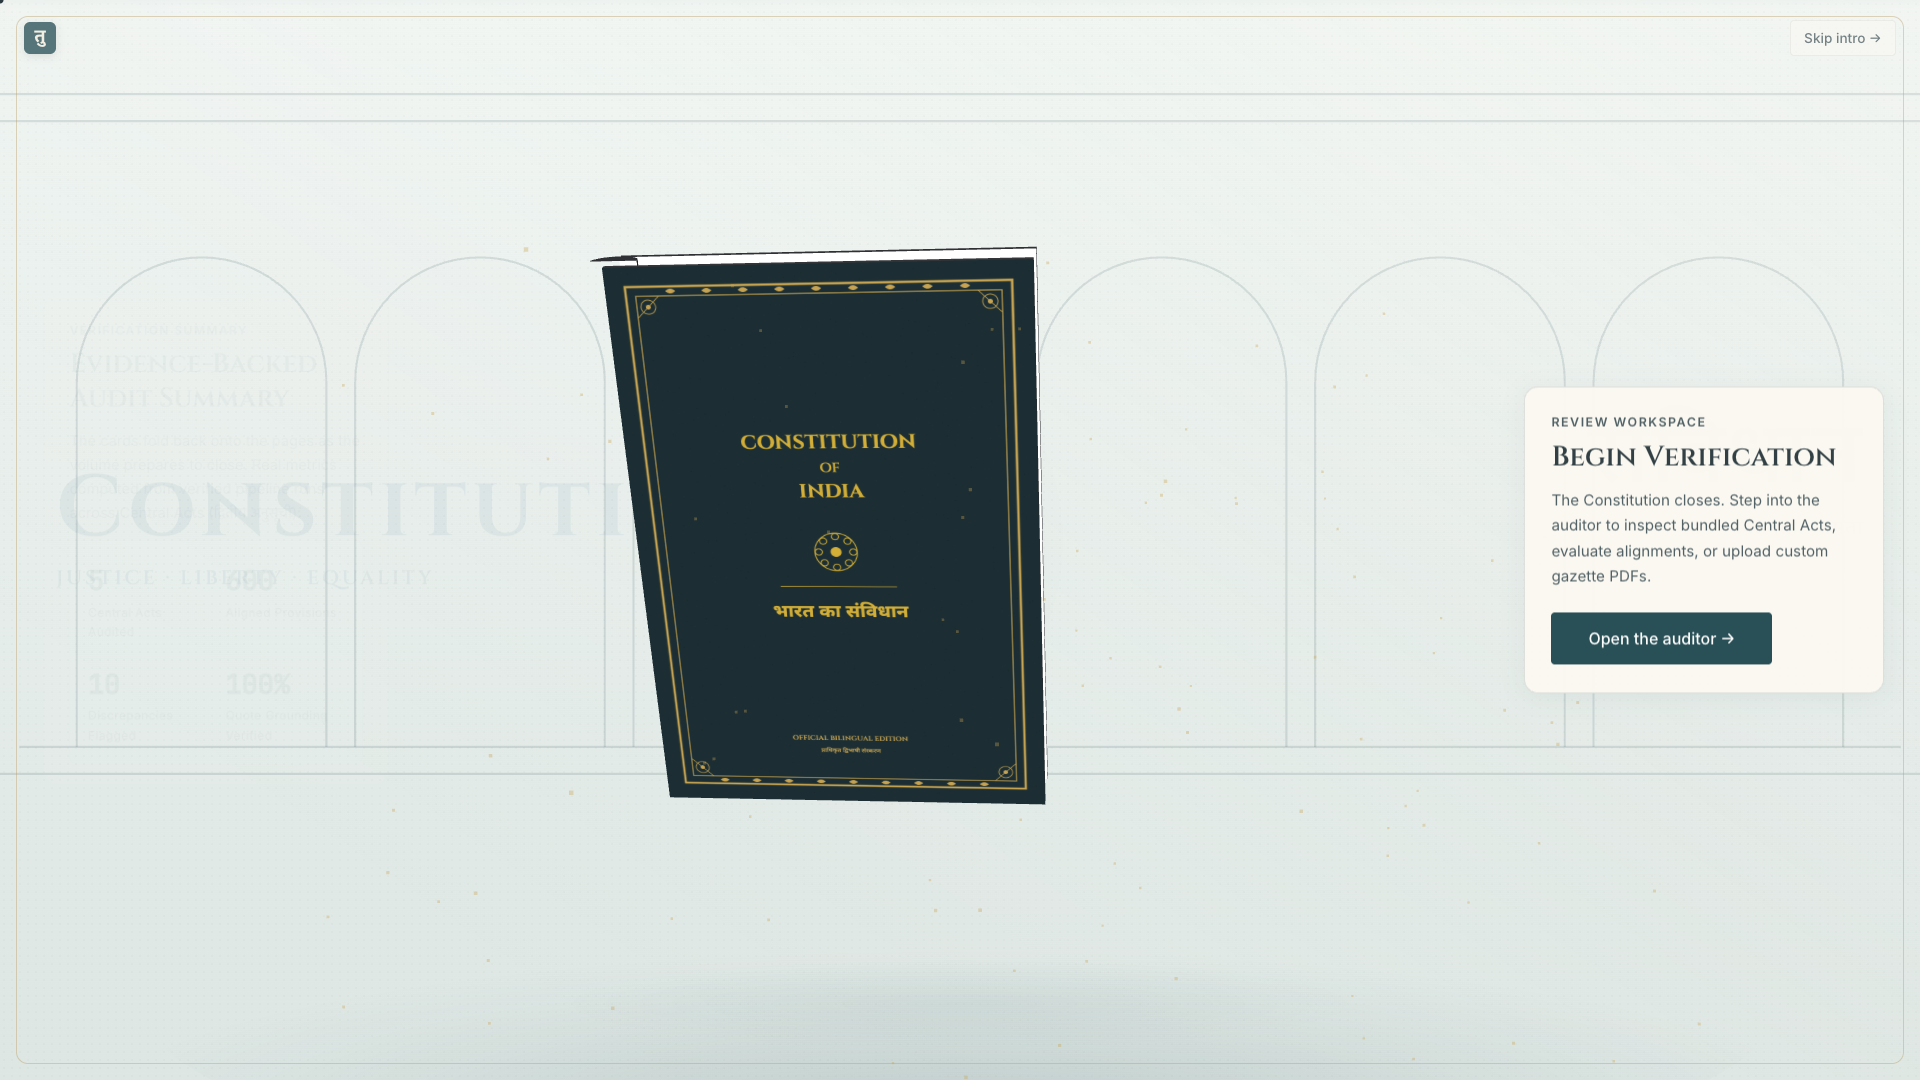
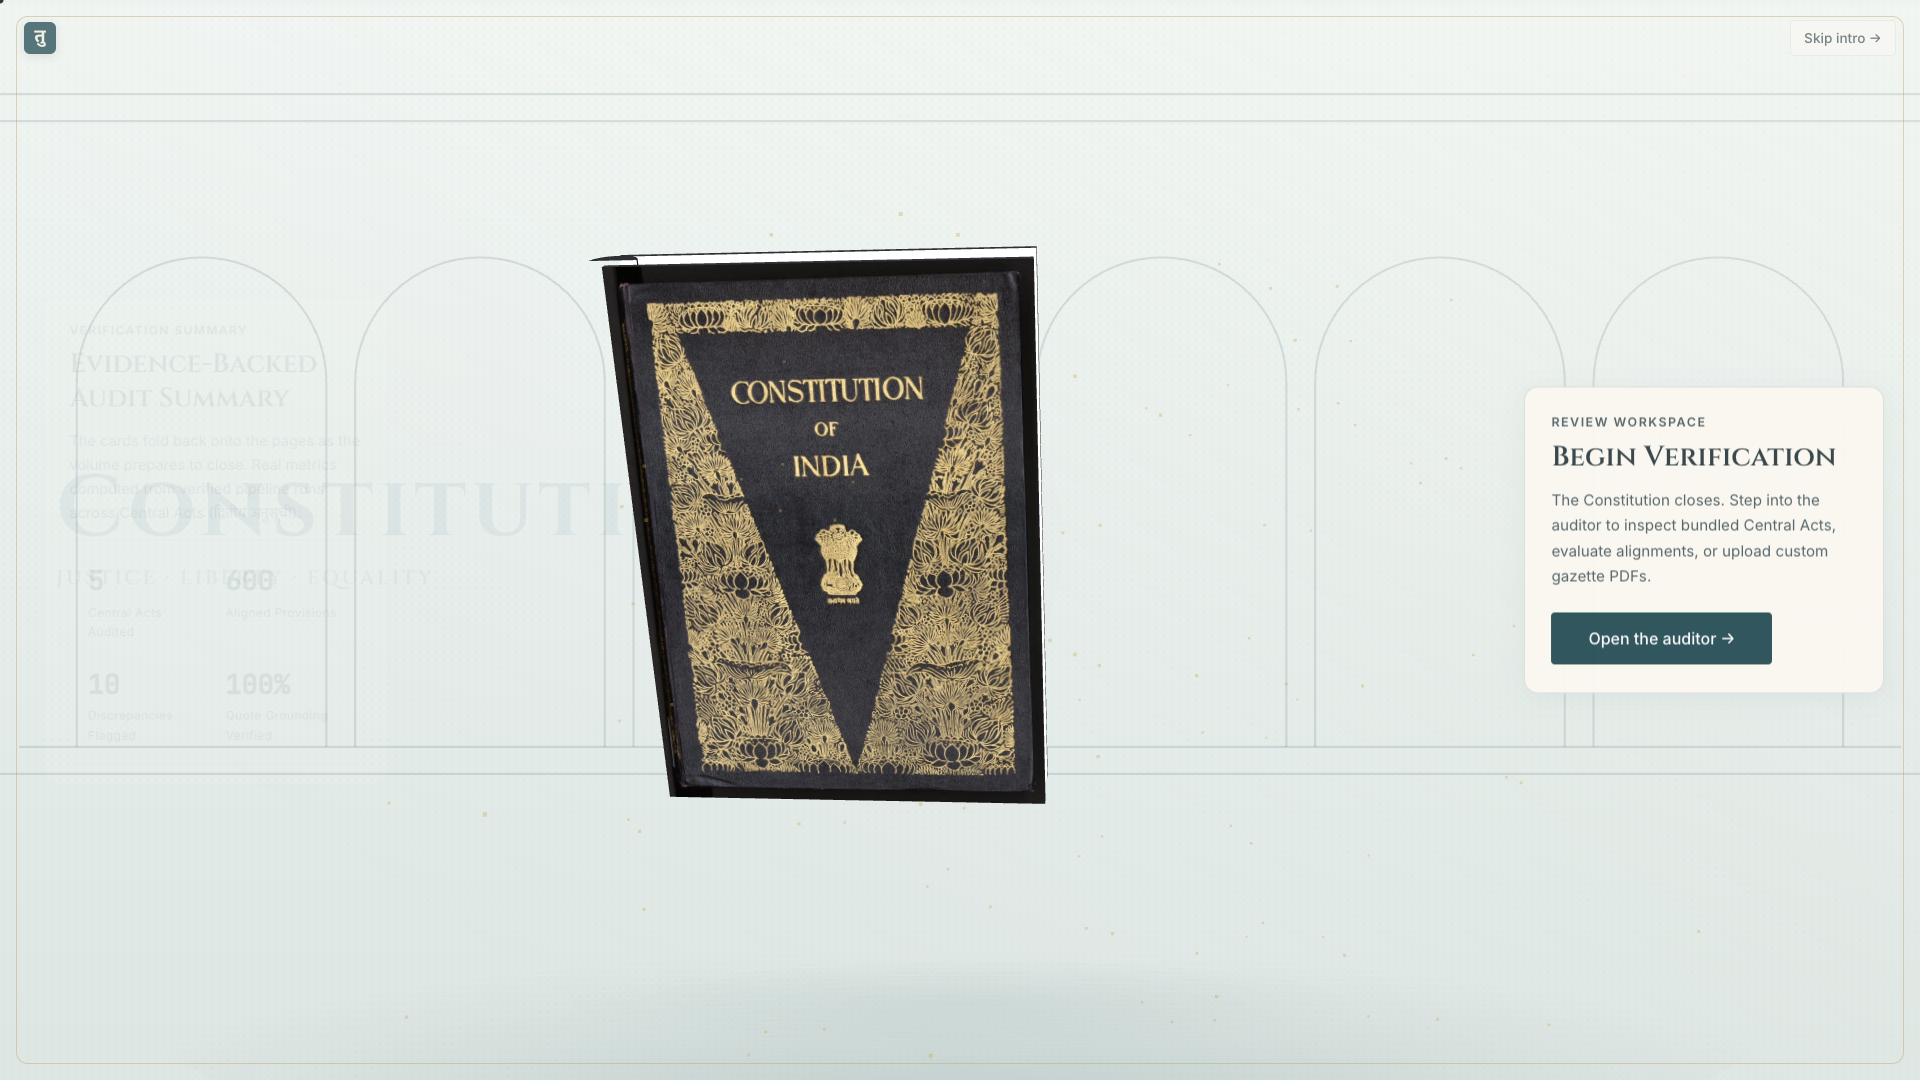
feat(story): apply user-provided Constitution photo directly to 3D book cover

Changed region(s): [[0.3125, 0.2139, 0.5625, 0.7639]]

diff --git a/frontend/static/story.js b/frontend/static/story.js
@@ -782,14 +782,25 @@
 
   // Front cover thin slab with 24 width segments for board flex
   const frontCoverGeo = new THREE.BoxGeometry(BOOK_W, BOOK_H, COVER_T, 24, 1, 1);
-  const coverTex = createCoverTexture();
+  const texLoader = new THREE.TextureLoader();
+  const photoCoverTex = texLoader.load('/public/assets/constitution_cover.webp', (tex) => {
+    tex.anisotropy = 4;
+    frontCoverFaceMat.map = tex;
+    frontCoverFaceMat.needsUpdate = true;
+  }, undefined, () => {
+    texLoader.load('/public/assets/constitution_cover.jpg', (tex) => {
+      tex.anisotropy = 4;
+      frontCoverFaceMat.map = tex;
+      frontCoverFaceMat.needsUpdate = true;
+    });
+  });
 
   const coverFlexUniform = { value: 0.0 };
   const frontCoverLeatherMat = new THREE.MeshStandardMaterial({
     color: COLOR_COVER,
     roughness: 0.55
   });
-  const frontCoverFaceMat = new THREE.MeshBasicMaterial({ map: coverTex, color: 0xFFFFFF });
+  const frontCoverFaceMat = new THREE.MeshBasicMaterial({ map: photoCoverTex, color: 0xFFFFFF });
   const frontCoverEndpaperMat = new THREE.MeshStandardMaterial({
     map: endpaperTex,
     roughness: 0.65
@@ -825,9 +836,7 @@
   frontCoverMesh.position.set(BOOK_W / 2, 0, COVER_T / 2);
   coverPivot.add(frontCoverMesh);
 
-  // FIX 6: Cover uses procedural illustrated gold-foil lotus border cover (no emblem photograph)
   // Normal map loaded for realistic tactile leather relief
-  const texLoader = new THREE.TextureLoader();
   texLoader.load('/public/assets/cover_leather_nor_gl_1k.webp', (tex) => {
     frontCoverFaceMat.normalMap = tex;
     frontCoverFaceMat.normalScale = new THREE.Vector2(0.35, 0.35);
@@ -1701,10 +1710,6 @@
   // Font readiness: update canvas textures when web fonts finish shaping
   if (document.fonts && document.fonts.ready) {
     document.fonts.ready.then(() => {
-      const newCover = createCoverTexture();
-      frontCoverFaceMat.map = newCover;
-      frontCoverFaceMat.needsUpdate = true;
-
       const newEn = createPreambleEnTexture();
       enSpreadMat.map = newEn;
       enSpreadMat.needsUpdate = true;
